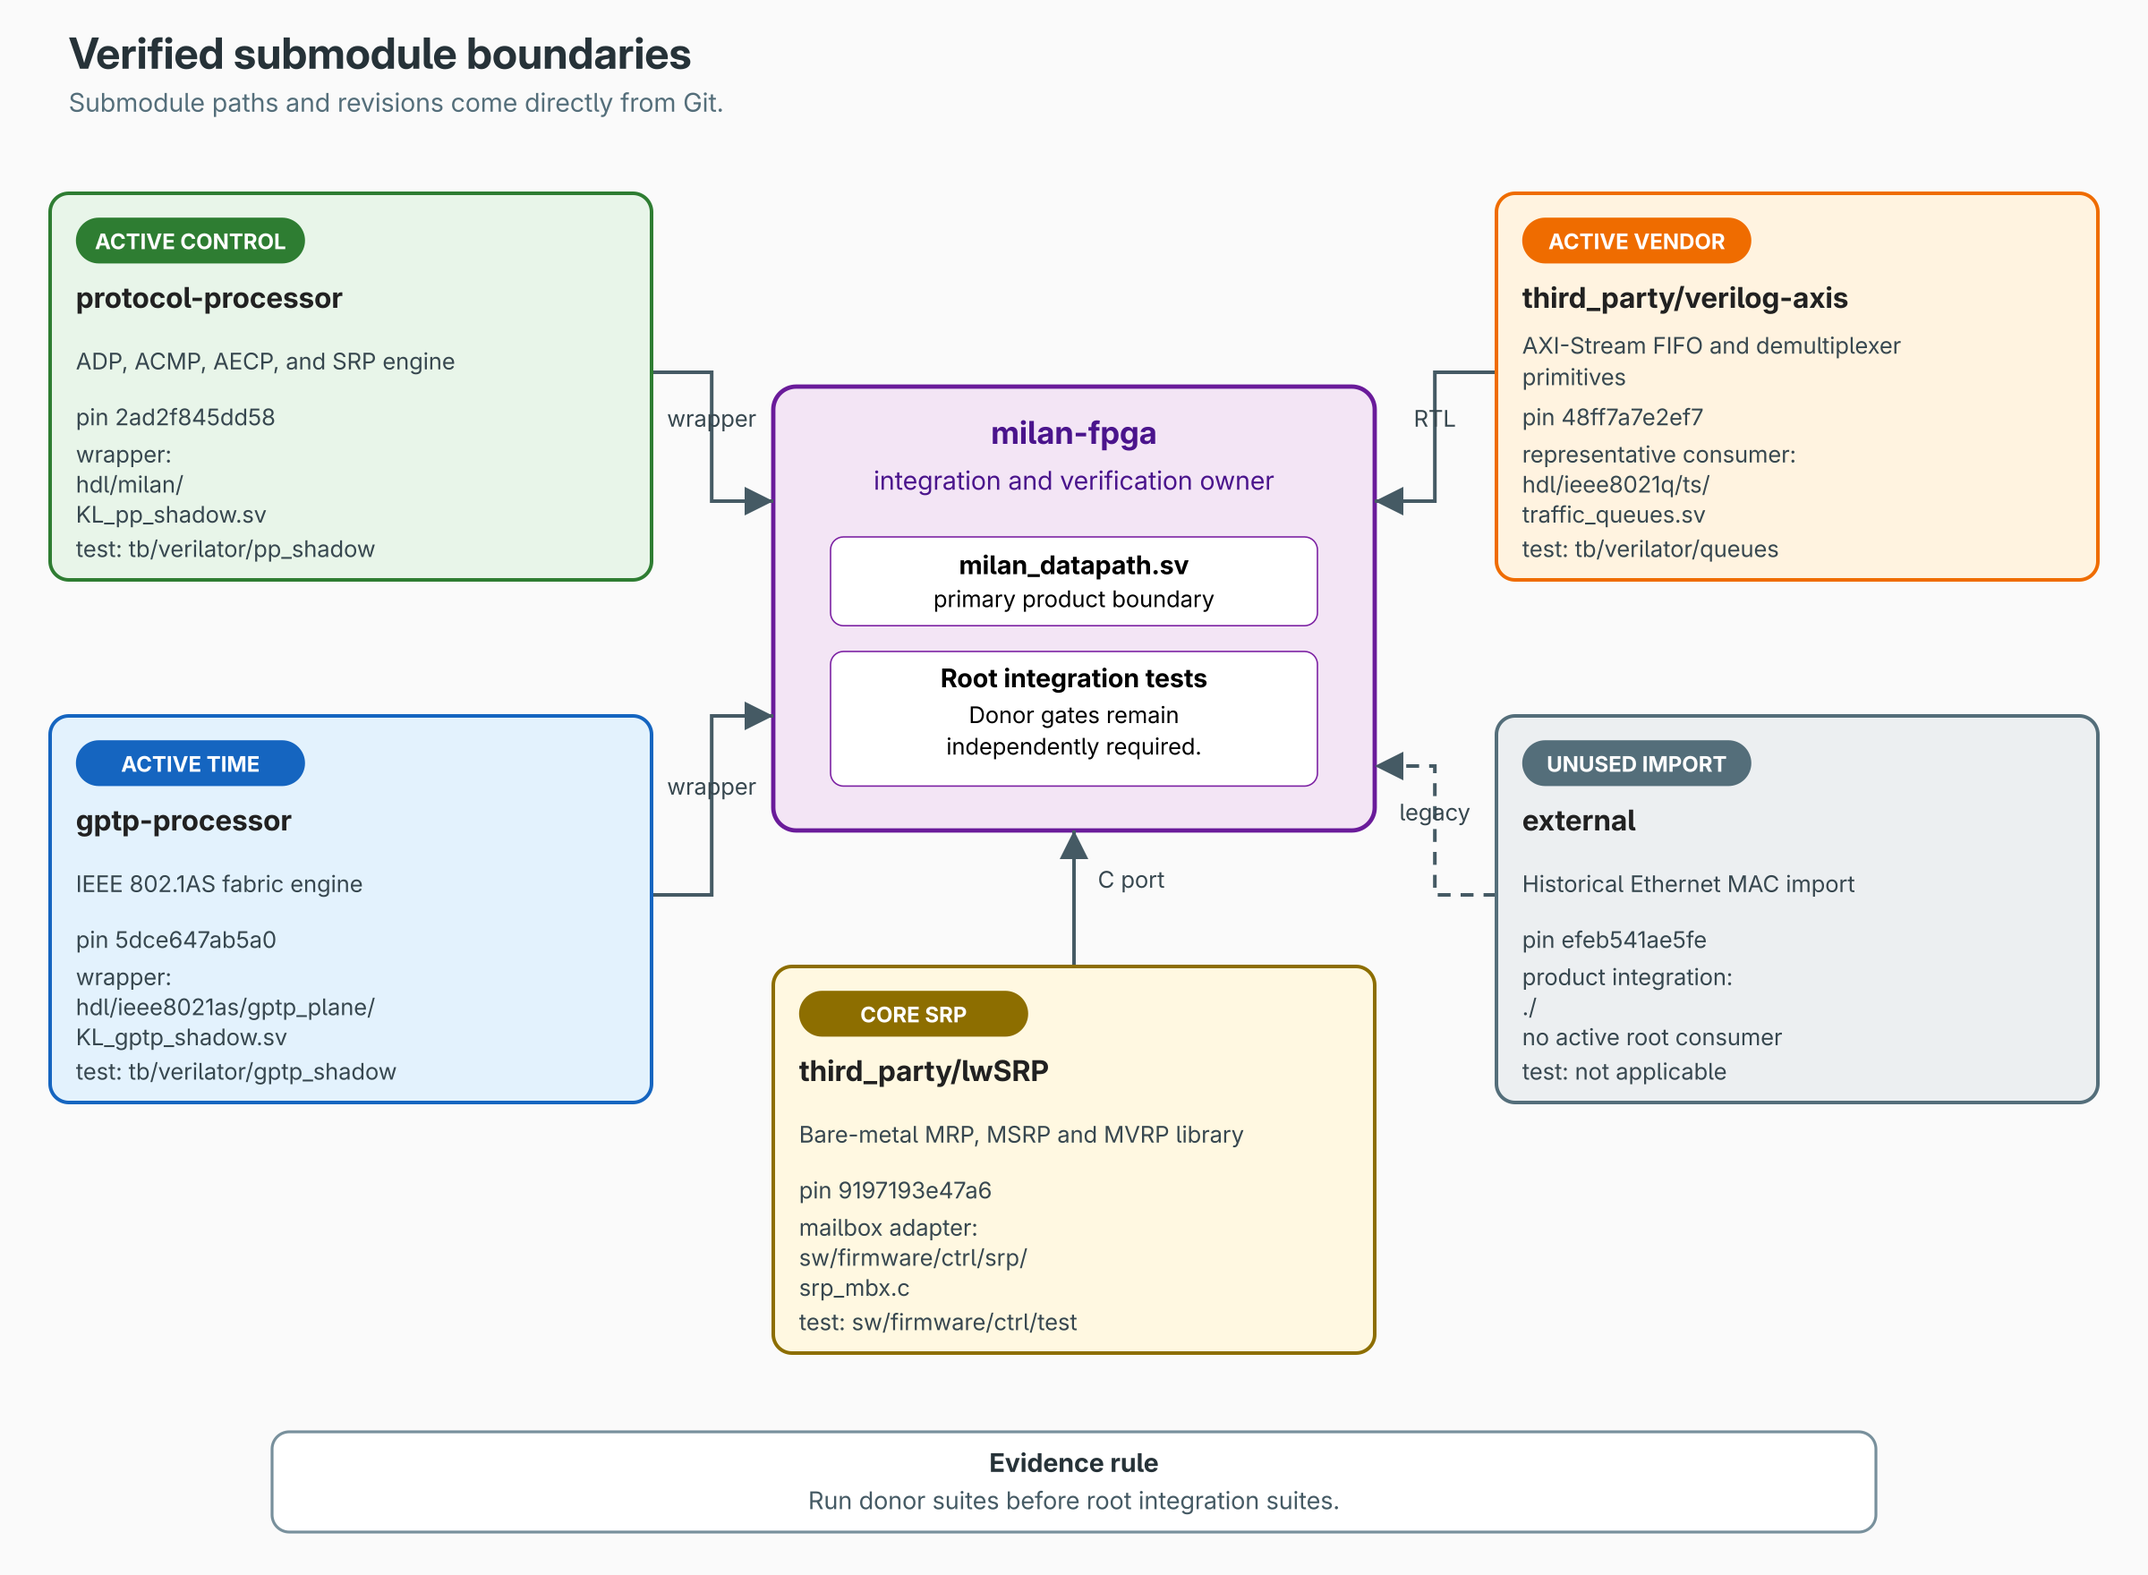
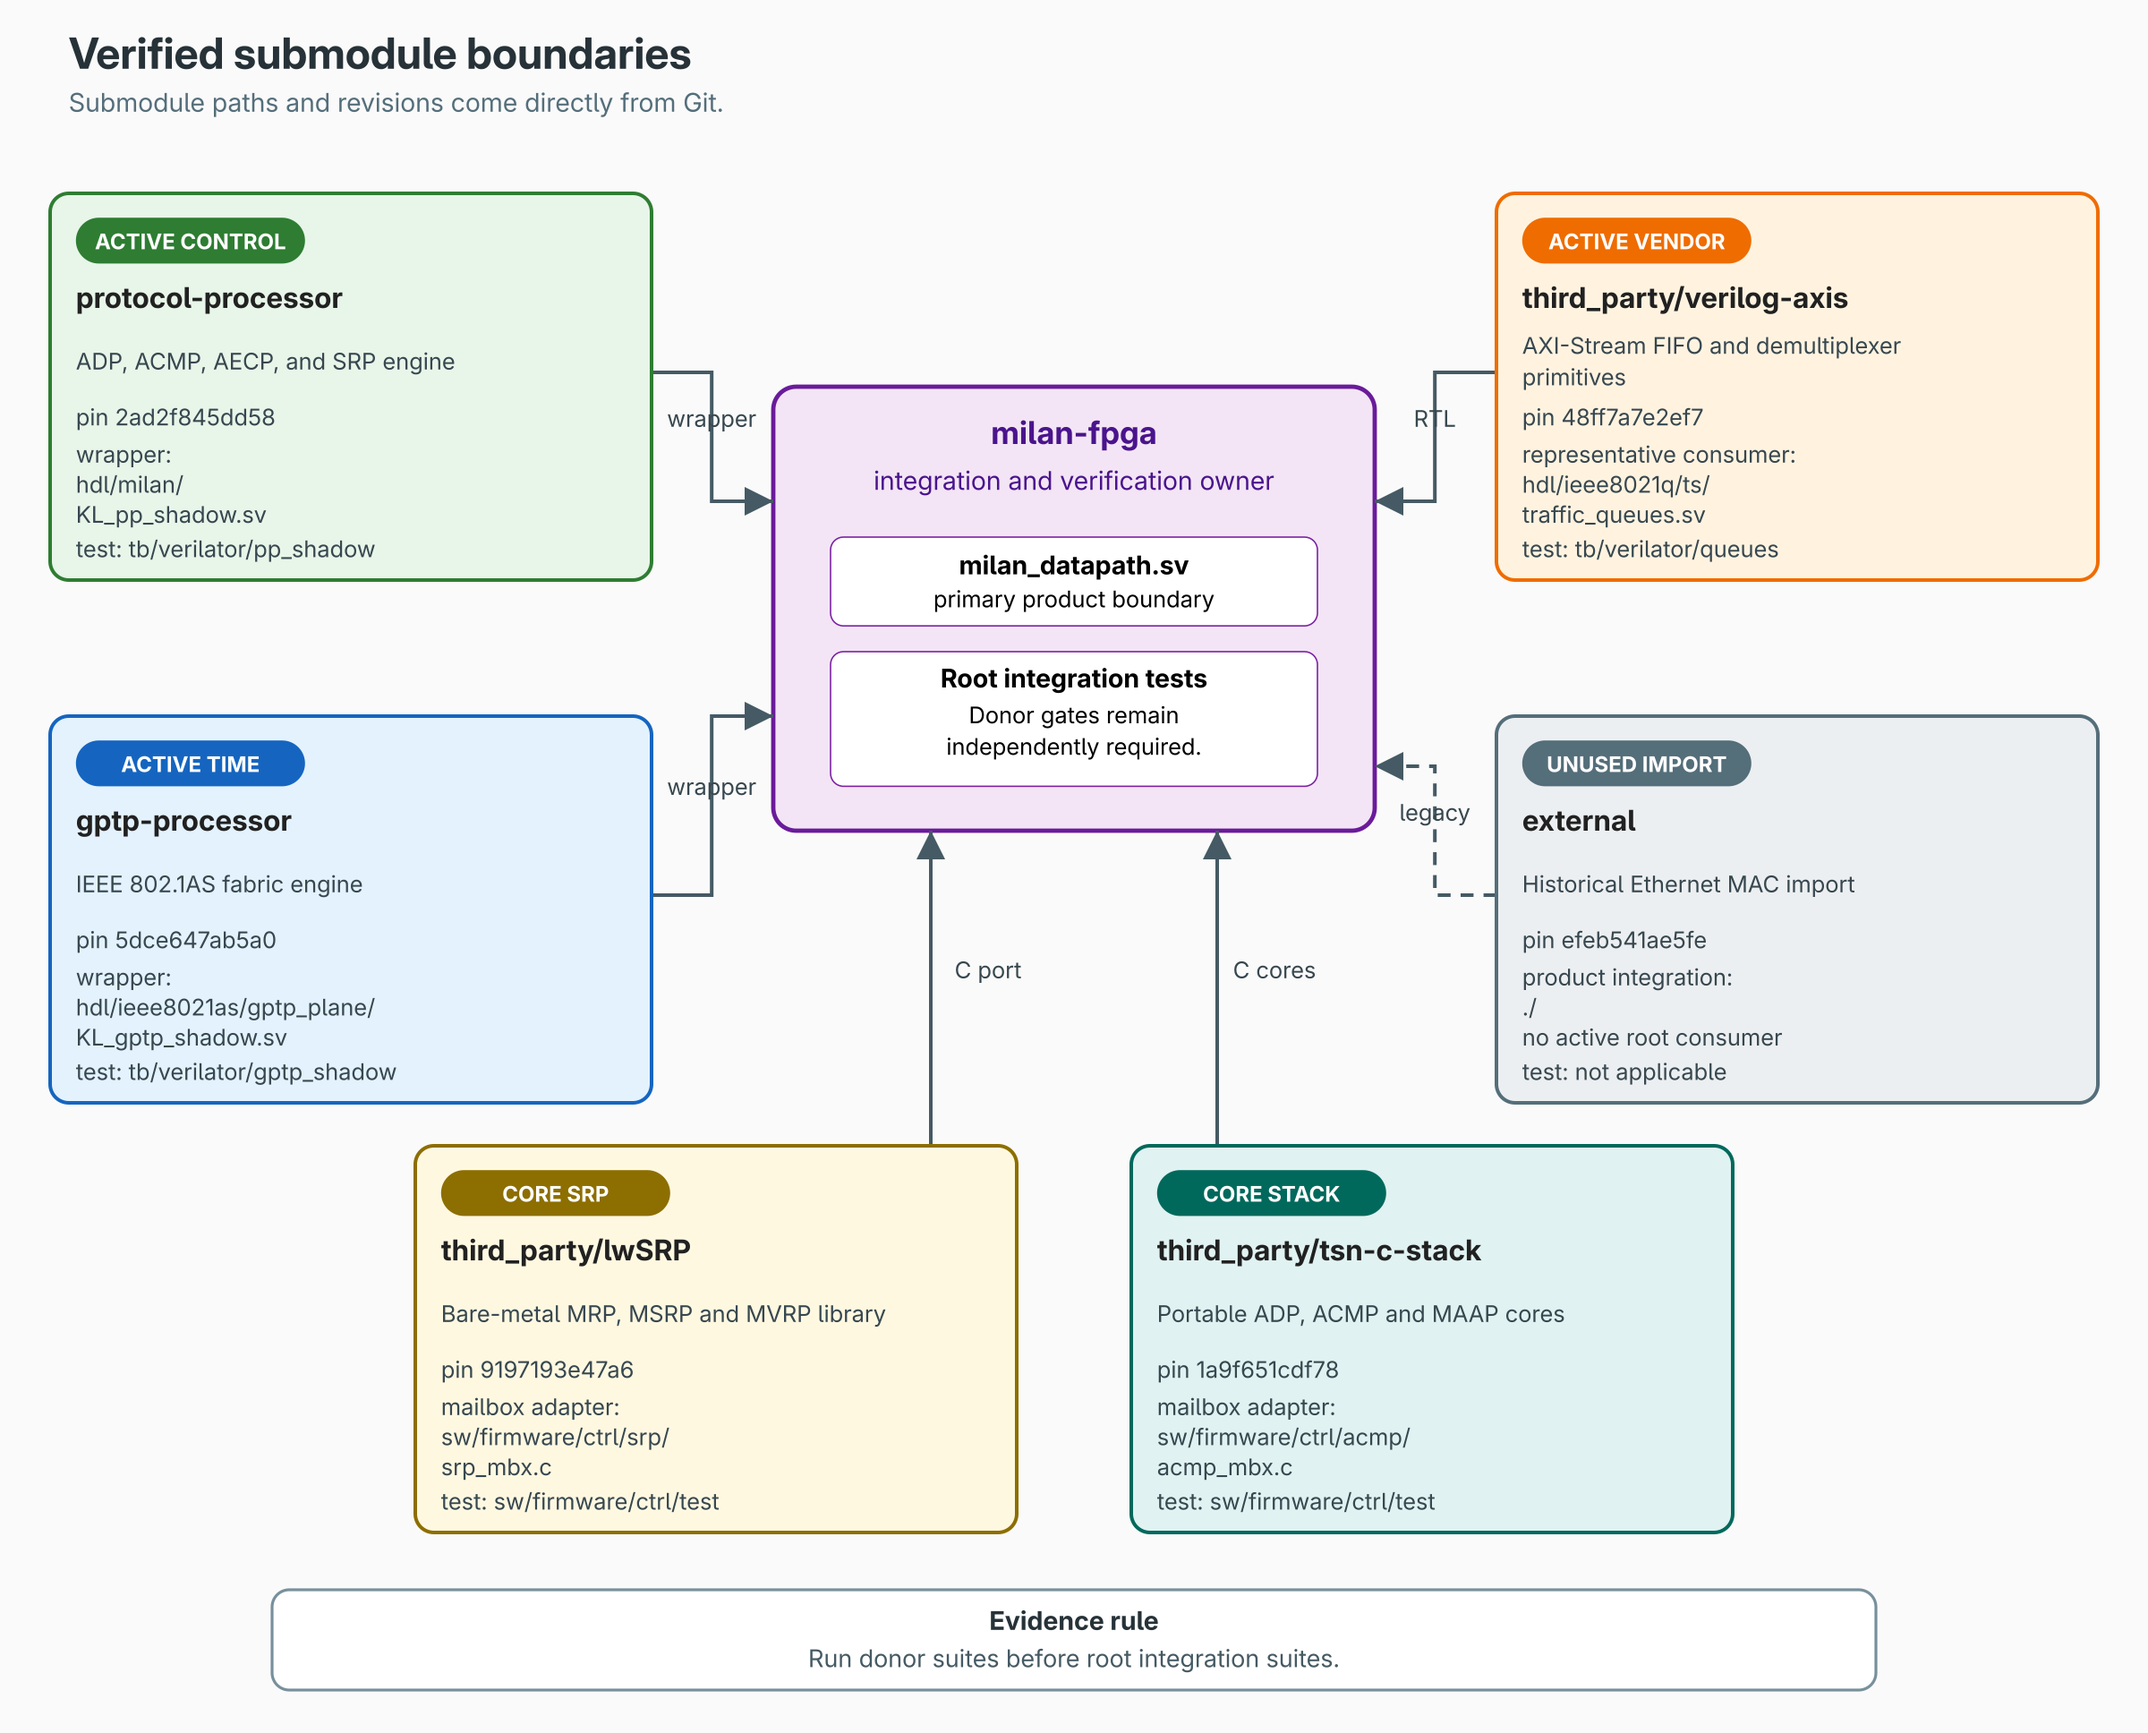
Add tsn-c-stack as a pinned submodule and trust it in the act manifest

Changed region(s): [[0.0312, 0.2188, 0.875, 1.0], [0.0312, 0.0, 0.3438, 0.375], [0.6875, 0.0938, 1.0, 0.375]]

diff --git a/scripts/act_ci.py b/scripts/act_ci.py
@@ -231,6 +231,11 @@ TRUSTED_SUBMODULES = (
         "third_party/lwSRP",
         "https://github.com/kebag-logic/lwSRP.git",
     ),
+    (
+        "third_party/tsn-c-stack",
+        "third_party/tsn-c-stack",
+        "https://github.com/kebag-logic/tsn-c-stack.git",
+    ),
 )
 REQUIRED_SUBMODULES = tuple(
     path for name, path, _url in TRUSTED_SUBMODULES if name != "external"
@@ -10597,8 +10602,9 @@ def selftest_submodule_manifest(tally: SelftestTally, git_fixture: GitFixture) -
          "https://github.com/Mister-M-alt/protocol-processor-control-plane-avb-milan.git"),
         ("gptp-processor", "gptp-processor", "https://github.com/Mister-M-alt/FPGA-gPTP.git"),
         ("third_party/lwSRP", "third_party/lwSRP", "https://github.com/kebag-logic/lwSRP.git"),
+        ("third_party/tsn-c-stack", "third_party/tsn-c-stack", "https://github.com/kebag-logic/tsn-c-stack.git"),
     )
-    check("the trusted manifest includes exactly the five approved entries", TRUSTED_SUBMODULES == manifest)
+    check("the trusted manifest includes exactly the six approved entries", TRUSTED_SUBMODULES == manifest)
     gitmodules_text = "".join(
         f'[submodule "{name}"]\n\tpath = {path}\n\turl = {url}\n'
         for name, path, url in manifest
@@ -10622,12 +10628,14 @@ def selftest_submodule_manifest(tally: SelftestTally, git_fixture: GitFixture) -
     with mock.patch.object(sys.modules[__name__], "capture", return_value="") as fetched:
         initialize_required_submodules(repo, repo.parent)
     check(
-        "materialization fetches all four public pins including lwSRP and excludes external",
+        "materialization fetches all five public pins including lwSRP and tsn-c-stack and excludes external",
         fetched.call_args.args[0]
         == [*git_prefix(), "-C", str(repo), "submodule", "update", "--init", "--",
-            "third_party/verilog-axis", "protocol-processor", "gptp-processor", "third_party/lwSRP"],
+            "third_party/verilog-axis", "protocol-processor", "gptp-processor", "third_party/lwSRP",
+            "third_party/tsn-c-stack"],
     )
     selftest_lwsrp_manifest(tally, git_fixture, gitmodules_text, trusted_gitlinks)
+    selftest_stack_manifest(tally, git_fixture, gitmodules_text, trusted_gitlinks)
 
     hostile_manifest = gitmodules_text.replace(
         "https://github.com/alexforencich/verilog-axis",
@@ -10689,7 +10697,7 @@ def selftest_lwsrp_manifest(
          gitlinks),
         ("redirects lwSRP", manifest.replace("https://github.com/kebag-logic/lwSRP.git",
                                              "https://127.0.0.1:9/attacker/lwSRP.git"), gitlinks),
-        ("drops lwSRP gitlink", manifest, gitlinks[:-1]),
+        ("drops lwSRP gitlink", manifest, tuple(link for link in gitlinks if link != "third_party/lwSRP")),
         ("adds lwSRP gitlink", manifest, (*gitlinks, "third_party/lwSRP-extra")),
     )
     for label, candidate, candidate_links in variants:
@@ -10721,6 +10729,33 @@ def selftest_lwsrp_manifest(
                 label, lambda: validate_submodule_manifest(repo, commit, candidate_links)
             )
         tally.check(f"{label} control catches candidate-controlled trust", planted.failures == 1)
+
+
+def selftest_stack_manifest(
+    tally: SelftestTally, git_fixture: GitFixture, manifest: str, gitlinks: tuple[str, ...]
+) -> None:
+    """Arms: a tsn-c-stack omission, redirection or extra gitlink fails before materialization (#697)."""
+    repo = git_fixture.repo
+    test_git = git_fixture.test_git
+    stanza = ('[submodule "third_party/tsn-c-stack"]\n\tpath = third_party/tsn-c-stack\n'
+              '\turl = https://github.com/kebag-logic/tsn-c-stack.git\n')
+    variants = (
+        ("drops tsn-c-stack", manifest.replace(stanza, ""), gitlinks),
+        ("redirects tsn-c-stack", manifest.replace("https://github.com/kebag-logic/tsn-c-stack.git",
+                                                   "https://127.0.0.1:9/attacker/tsn-c-stack.git"), gitlinks),
+        ("drops tsn-c-stack gitlink", manifest,
+         tuple(link for link in gitlinks if link != "third_party/tsn-c-stack")),
+        ("adds tsn-c-stack gitlink", manifest, (*gitlinks, "third_party/tsn-c-stack-extra")),
+    )
+    for label, candidate, candidate_links in variants:
+        (repo / ".gitmodules").write_text(candidate, encoding="utf-8")
+        test_git("add", ".gitmodules")
+        test_git("commit", "--quiet", "--allow-empty", "-m", label)
+        commit = test_git("rev-parse", "HEAD")
+        tally.refused(
+            f"candidate that {label} is refused before fetch",
+            lambda: validate_submodule_manifest(repo, commit, candidate_links),
+        )
 
 
 def selftest_sandbox_policy(tally: SelftestTally, repo: pathlib.Path) -> None:

diff --git a/docs/diagrams/submodule_boundaries.gen.py b/docs/diagrams/submodule_boundaries.gen.py
@@ -40,7 +40,7 @@ from png_artifact import (  # noqa: E402
 
 BASE = ROOT / "docs" / "diagrams" / "submodule_boundaries"
 WIDTH = 1500
-HEIGHT = 1100
+HEIGHT = 1210
 RASTER_WIDTH = 2400
 DRAWIO_HASH_KEY = "Milan-Drawio-SHA256"
 MANIFEST = ROOT / "docs" / "diagrams" / "PNG_MANIFEST.json"
@@ -100,6 +100,16 @@ ROLES = {
         "CORE SRP",
         "#FFF8E1",
         "#8D6E00",
+    ),
+    "third_party/tsn-c-stack": Role(
+        "Portable ADP, ACMP and MAAP cores",
+        "sw/firmware/ctrl/acmp/acmp_mbx.c",
+        "mailbox adapter",
+        "GoogleTest and CTest",
+        "sw/firmware/ctrl/test",
+        "CORE STACK",
+        "#E0F2F1",
+        "#00695C",
     ),
     "external": Role(
         "Historical Ethernet MAC import",
@@ -187,7 +197,8 @@ def module_positions() -> dict[str, tuple[int, int]]:
         "gptp-processor": (35, 500),
         "third_party/verilog-axis": (1045, 135),
         "external": (1045, 500),
-        "third_party/lwSRP": (540, 675),
+        "third_party/lwSRP": (290, 800),
+        "third_party/tsn-c-stack": (790, 800),
     }
 
 
@@ -244,7 +255,8 @@ def _svg_connections() -> list[str]:
         "gptp-processor": ((455, 625), (540, 500), "wrapper"),
         "third_party/verilog-axis": ((1045, 260), (960, 350), "RTL"),
         "external": ((1045, 625), (960, 535), "legacy"),
-        "third_party/lwSRP": ((750, 675), (750, 580), "C port"),
+        "third_party/lwSRP": ((650, 800), (650, 580), "C port"),
+        "third_party/tsn-c-stack": ((850, 800), (850, 580), "C cores"),
     }
     for path, (start, end, label) in connections.items():
         dash = ' stroke-dasharray="9,7"' if path == "external" else ""
@@ -308,11 +320,11 @@ def _svg_module_card(path: str, module: Submodule, x: int, y: int) -> list[str]:
 def _svg_evidence_rule() -> list[str]:
     """The closing rule: donor suites run before root integration suites."""
     return [
-        '<rect x="190" y="1000" width="1120" height="70" rx="12" '
+        '<rect x="190" y="1110" width="1120" height="70" rx="12" '
         'fill="#FFFFFF" stroke="#78909C" stroke-width="2"/>',
-        '<text x="750" y="1028" text-anchor="middle" font-size="18" '
+        '<text x="750" y="1138" text-anchor="middle" font-size="18" '
         'font-weight="bold" fill="#263238">Evidence rule</text>',
-        '<text x="750" y="1054" text-anchor="middle" font-size="17" '
+        '<text x="750" y="1164" text-anchor="middle" font-size="17" '
         'fill="#455A64">Run donor suites before root integration suites.</text>',
         '</svg>',
     ]
@@ -374,6 +386,7 @@ def _edge_cells(module_ids: dict[str, str]) -> list[str]:
         ("third_party/verilog-axis", "RTL", False),
         ("external", "legacy", True),
         ("third_party/lwSRP", "C port", False),
+        ("third_party/tsn-c-stack", "C cores", False),
     ]
     for index, (path, label, dashed) in enumerate(edges, start=1):
         style = (
@@ -429,7 +442,7 @@ def drawio(modules: list[Submodule]) -> str:
     cells.extend(_edge_cells(module_ids))
     cells.append(_vertex_cell(
         "evidence",
-        Box(190, 1000, 1120, 70),
+        Box(190, 1110, 1120, 70),
         "<b>Evidence rule</b><br>"
         "Run donor suites before root integration suites.",
         ("#FFFFFF", "#78909C"),

diff --git a/scripts/check_submodule_docs.py b/scripts/check_submodule_docs.py
@@ -28,6 +28,7 @@ EDGE_LABELS = {
     "gptp-processor": "wrapper",
     "third_party/verilog-axis": "RTL",
     "third_party/lwSRP": "C port",
+    "third_party/tsn-c-stack": "C cores",
     "external": "legacy",
 }
 

diff --git a/docs/reference/SUBMODULES.md b/docs/reference/SUBMODULES.md
@@ -24,6 +24,7 @@ Dirty submodules invalidate local evidence.
 | `gptp-processor` | `5dce647ab5a01a6ecff9a982b22e3a4a1d946d3d` | Fabric gPTP engine | `KL_gptp_shadow.sv` |
 | `protocol-processor` | `2ad2f845dd583f8310075fa2380cb60a04fd091a` | ADP, ACMP, AECP, and SRP | `KL_pp_shadow.sv` |
 | `third_party/lwSRP` | `9197193e47a6bb1c45a56d90a18c1784123aba44` | Bare-metal MRP, MSRP and MVRP | `sw/firmware/ctrl/srp/srp_mbx.c` |
+| `third_party/tsn-c-stack` | `1a9f651cdf7846b8e10ac246a6ef6916960fbb92` | Portable ADP, ACMP and MAAP cores | `sw/firmware/ctrl` mailbox adapters |
 | `third_party/verilog-axis` | `48ff7a7e2ef782cf778d47910cf85835c64b1bce` | AXI-Stream primitives | Multiple RTL consumers |
 <!-- submodule-pins:end -->
 
@@ -212,14 +213,15 @@ It does not trust checked-out heads.
 
 ## Initialize safely
 
-Firmware and root gates use these four submodules.
+Firmware and root gates use these five submodules.
 
 ```sh
 git submodule update --init \
   third_party/verilog-axis \
   protocol-processor \
   gptp-processor \
-  third_party/lwSRP
+  third_party/lwSRP \
+  third_party/tsn-c-stack
 ```
 
 lwSRP uses the HTTPS URL recorded in `.gitmodules`.
@@ -232,6 +234,14 @@ The [SRP adapter](../../sw/firmware/ctrl/srp/README.md) documents compilation an
 
 lwSRP is licensed under Apache-2.0.
 Its pinned `LICENSE` and `NOTICE` retain dependency terms.
+
+tsn-c-stack uses HTTPS and needs no credentials.
+
+It holds the ADP, ACMP and MAAP cores.
+
+The [control firmware](../../sw/firmware/ctrl/README.md) uses its public headers.
+
+tsn-c-stack is licensed under [MIT](https://github.com/kebag-logic/tsn-c-stack/blob/1a9f651cdf7846b8e10ac246a6ef6916960fbb92/LICENSE).
 
 The unused external import uses SSH.
 
@@ -276,6 +286,7 @@ The cleanliness command must print nothing.
 | `gptp-processor` | `make -C gptp-processor` | `make -C tb/verilator/gptp_shadow` |
 | `third_party/verilog-axis` | Upstream evidence | `make -C tb/verilator/queues` |
 | `third_party/lwSRP` | cgreen and behave | `python3 sw/firmware/ctrl/test/test_ctrl_firmware.py --require-rv32 --self-test --jobs 4` |
+| `third_party/tsn-c-stack` | [Quality workflow](https://github.com/kebag-logic/tsn-c-stack/blob/1a9f651cdf7846b8e10ac246a6ef6916960fbb92/.github/workflows/quality.yml) | `python3 sw/firmware/ctrl/test/test_ctrl_firmware.py --require-rv32 --self-test --jobs 4` |
 | `external` | Upstream evidence | Not applicable; no active product consumer |
 
 ## Known documentation conflicts

diff --git a/docs/testing/CI_WORKFLOWS.md b/docs/testing/CI_WORKFLOWS.md
@@ -1541,14 +1541,14 @@ otherwise complete local head-tree run.
 
 Before any candidate-directed network operation, the runner parses the exact
 committed `.gitmodules` blob and requires the trusted name/path/URL pairs with
-no duplicate or extra configuration. It also requires the matching five
+no duplicate or extra configuration. It also requires the matching six
 gitlink paths. Git disables every transport by default and enables only HTTPS;
 the inactive SSH-only `external` entry must match the trusted manifest but is
 never fetched. Only then, and only after selected workflows pass their static
-sandbox scan, does the temporary checkout initialize the four allowlisted
+sandbox scan, does the temporary checkout initialize the five allowlisted
 public pinned dependencies (`third_party/verilog-axis`, `protocol-processor`,
-`gptp-processor`, and `third_party/lwSRP`). This gives act's checkout copier
-the submodule-path parity that a hosted checkout exposes; each workflow's own submodule update
+`gptp-processor`, `third_party/lwSRP`, and `third_party/tsn-c-stack`). This
+gives act's checkout copier the submodule-path parity that a hosted checkout exposes; each workflow's own submodule update
 remains the authoritative, idempotent check of those pins.
 
 The runner then populates the per-run action cache itself, serially, before

diff --git a/THIRD_PARTY.md b/THIRD_PARTY.md
@@ -18,6 +18,7 @@ Gitlinks define their exact revisions.
 | `gptp-processor` | `Mister-M-alt/FPGA-gPTP` | CERN-OHL-W-2.0 | Fabric gPTP engine |
 | `protocol-processor` | `Mister-M-alt/protocol-processor-control-plane-avb-milan` | CERN-OHL-W-2.0 | ADP, ACMP, AECP, and SRP |
 | `third_party/lwSRP` | `kebag-logic/lwSRP` | Apache-2.0; see its `LICENSE` and `NOTICE` | Bare-metal MSRP and MVRP through the mailbox adapter |
+| `third_party/tsn-c-stack` | `kebag-logic/tsn-c-stack` | MIT; see its `LICENSE` | ADP, ACMP and MAAP cores through the mailbox adapters |
 | `third_party/verilog-axis` | `alexforencich/verilog-axis` | MIT | AXI-Stream primitives |
 
 Use the [verified submodule map](docs/reference/SUBMODULES.md).
